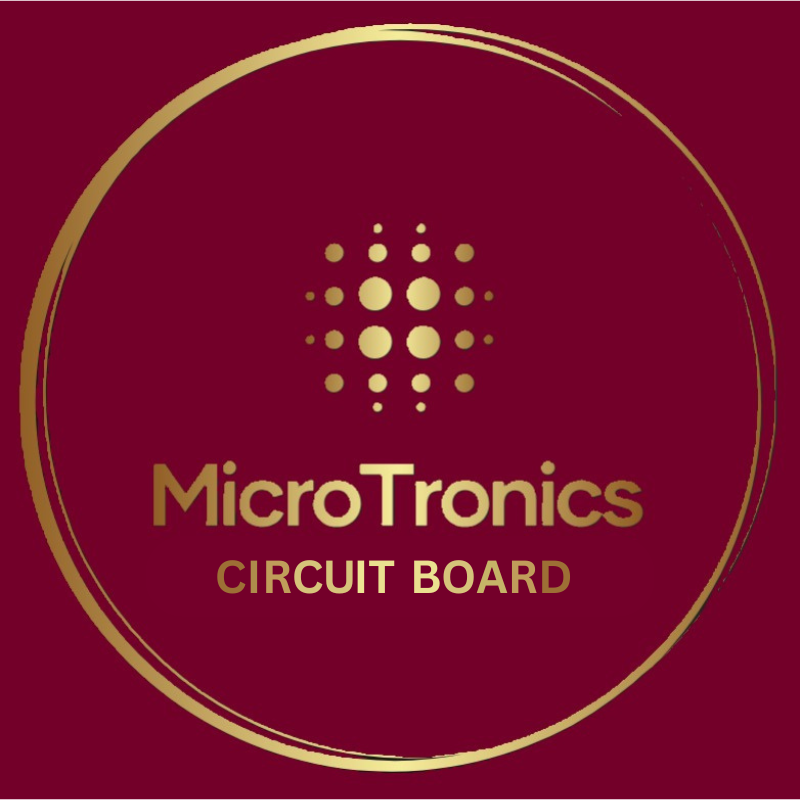
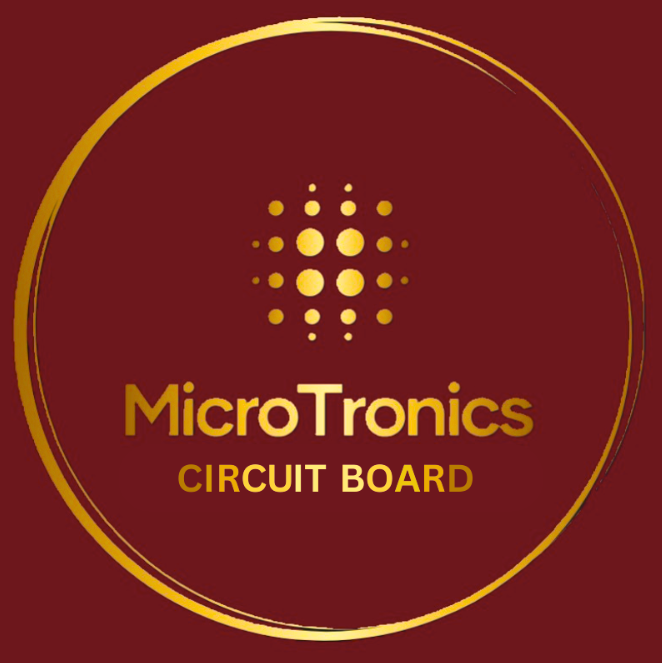
all changes updated

diff --git a/style.css b/style.css
@@ -8,8 +8,8 @@
   padding: 0;
   font-size: 10px;
   font-family: "Exo 2", sans-serif;
-  --main-text-color: #700021;
-  --secondary-text-color: #c2185b;
+  --main-text-color: #61010F;
+  --secondary-text-color: #940610;
   --white: #ffffff;
 }
 
@@ -132,36 +132,36 @@ html {
 }
 
 .home_main_heading {
+  width: 100%;
   margin: 0;
-  font-size: 4.5rem;
-  font-weight: 900;
-  position: relative;
-  padding: 2rem 0;
-  text-align: left;
-  line-height: 1.2;
-  background: linear-gradient(to right, #e9a72d 20%, #FFDC59 40%, #e9a72d 80%);
-  -webkit-background-clip: text;
-  background-clip: text;
-  -webkit-text-fill-color: transparent;
+  font-size: 2rem;
+  font-weight: 600;
+  color: #fdf7f8;
+  white-space: nowrap;
+  animation: moveText 28s linear infinite;
+  will-change: transform;
+  transform: translateX(0%);
 }
 
-.home_main_heading::before,
-.home_main_heading::after {
-  content: "";
+@keyframes moveText {
+  0% {
+    transform: translateX(-35%);
+  }
+
+  100% {
+    transform: translateX(100%);
+  }
+}
+
+.home_section_footer {
+  width: 100%;
   position: absolute;
-  width: 150px;
-  height: 4px;
-  background: linear-gradient(to right, #e9a72d 30%, #FFDC59 50%, #e9a72d 70%);
-  left: 50%;
-  transform: translateX(-100%);
-}
-
-.home_main_heading::before {
-  top: 0;
-}
-
-.home_main_heading::after {
+  height: 50px;
+  display: flex;
   bottom: 0;
+  background: var(--main-text-color);
+  overflow: hidden;
+  align-items: center;
 }
 
 .home_heading {
@@ -430,7 +430,6 @@ br {
 .mission_point,
 .vision_point {
   width: 100px;
-  height: 100px;
   position: relative;
   display: flex;
   align-items: center;
@@ -578,7 +577,6 @@ br {
   width: 100%;
   height: 35%;
   position: relative;
-  opacity: 0.7;
 }
 
 .agenda_top_container .common_video {
@@ -2164,6 +2162,12 @@ br {
     font-size: 7px;
   }
 
+  .section_footer.agenda_footer {
+    justify-content: center;
+    padding: 0;
+    width: 100%;
+  }
+
   .section_container {
     background-size: cover;
   }
@@ -2474,7 +2478,7 @@ br {
 
   .agenda_pages_links .links_col_1 ul,
   .agenda_pages_links .links_col_2 ul {
-    gap: 2.65rem;
+    gap: 1.65rem;
   }
 
   .agenda_pages_links {
